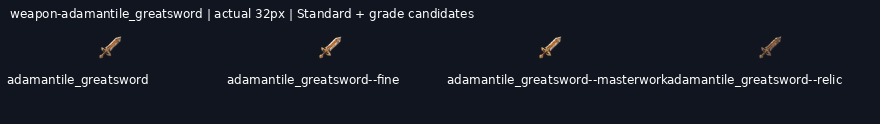
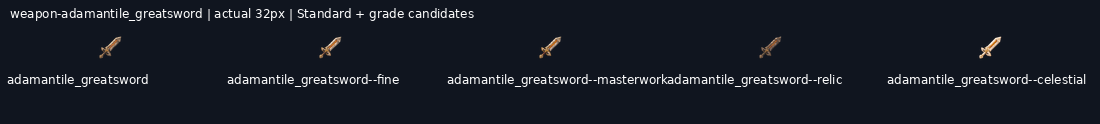
art: draw weapon-adamantile_greatsword--celestial grade candidate

diff --git a/art/_archive/gear/2026-11-19-kept-blade-grades/HANDOFF.md b/art/_archive/gear/2026-11-19-kept-blade-grades/HANDOFF.md
@@ -1,9 +1,9 @@
 # Kept-blade grade candidates
 
-**7/32 grade candidates delivered** on `art/2026-11-19-kept-blade-grades`. Shared mailbox: https://github.com/leonpentastorm/Project-Heaven-Cry/issues/3 . See claim.json for this lane’s current Standards. Released overlapping blades reuse12 peer candidates, with3 local alternatives archived.
+**8/32 grade candidates delivered** on `art/2026-11-19-kept-blade-grades`. Shared mailbox: https://github.com/leonpentastorm/Project-Heaven-Cry/issues/3 . See claim.json for this lane’s current Standards. Released overlapping blades reuse12 peer candidates, with3 local alternatives archived.
 
 Leon requested continuous candidate production; proof approval is not fabricated. All candidates remain review-candidate, production_approved:false, implementation_ready:false, with outline.review_required:true. Exact outline is measured, never asserted unless the masks match. Per-image registration is uniform scaling/translation only, without warp, silhouette masks, filled pixels or code-drawn substitutes. The generated native remains untouched.
 
 Each image is generated, shown, technically exported, validated, committed and pushed before the next. Sources, versioned masters, exact prompts/reference hashes,256/128/64/32 exports and grade comparison sheets are retained. Standards and earlier deliveries are unchanged. This sparse checkout cannot validate omitted historical files; full-library validation/build is an integration check on a full checkout.
 
-Remaining: weapon-adamantile_greatsword--celestial, weapon-ork_machete--fine, weapon-ork_machete--masterwork, weapon-ork_machete--relic, weapon-ork_machete--celestial, weapon-hatchet--fine, weapon-hatchet--masterwork, weapon-hatchet--relic, weapon-hatchet--celestial, weapon-war_axe--fine, weapon-war_axe--masterwork, weapon-war_axe--relic, weapon-war_axe--celestial, weapon-glaive--fine, weapon-glaive--masterwork, weapon-glaive--relic, weapon-glaive--celestial, weapon-lance--fine, weapon-lance--masterwork, weapon-lance--relic, weapon-lance--celestial, weapon-maul--fine, weapon-maul--masterwork, weapon-maul--relic, weapon-maul--celestial.
+Remaining: weapon-ork_machete--fine, weapon-ork_machete--masterwork, weapon-ork_machete--relic, weapon-ork_machete--celestial, weapon-hatchet--fine, weapon-hatchet--masterwork, weapon-hatchet--relic, weapon-hatchet--celestial, weapon-war_axe--fine, weapon-war_axe--masterwork, weapon-war_axe--relic, weapon-war_axe--celestial, weapon-glaive--fine, weapon-glaive--masterwork, weapon-glaive--relic, weapon-glaive--celestial, weapon-lance--fine, weapon-lance--masterwork, weapon-lance--relic, weapon-lance--celestial, weapon-maul--fine, weapon-maul--masterwork, weapon-maul--relic, weapon-maul--celestial.
